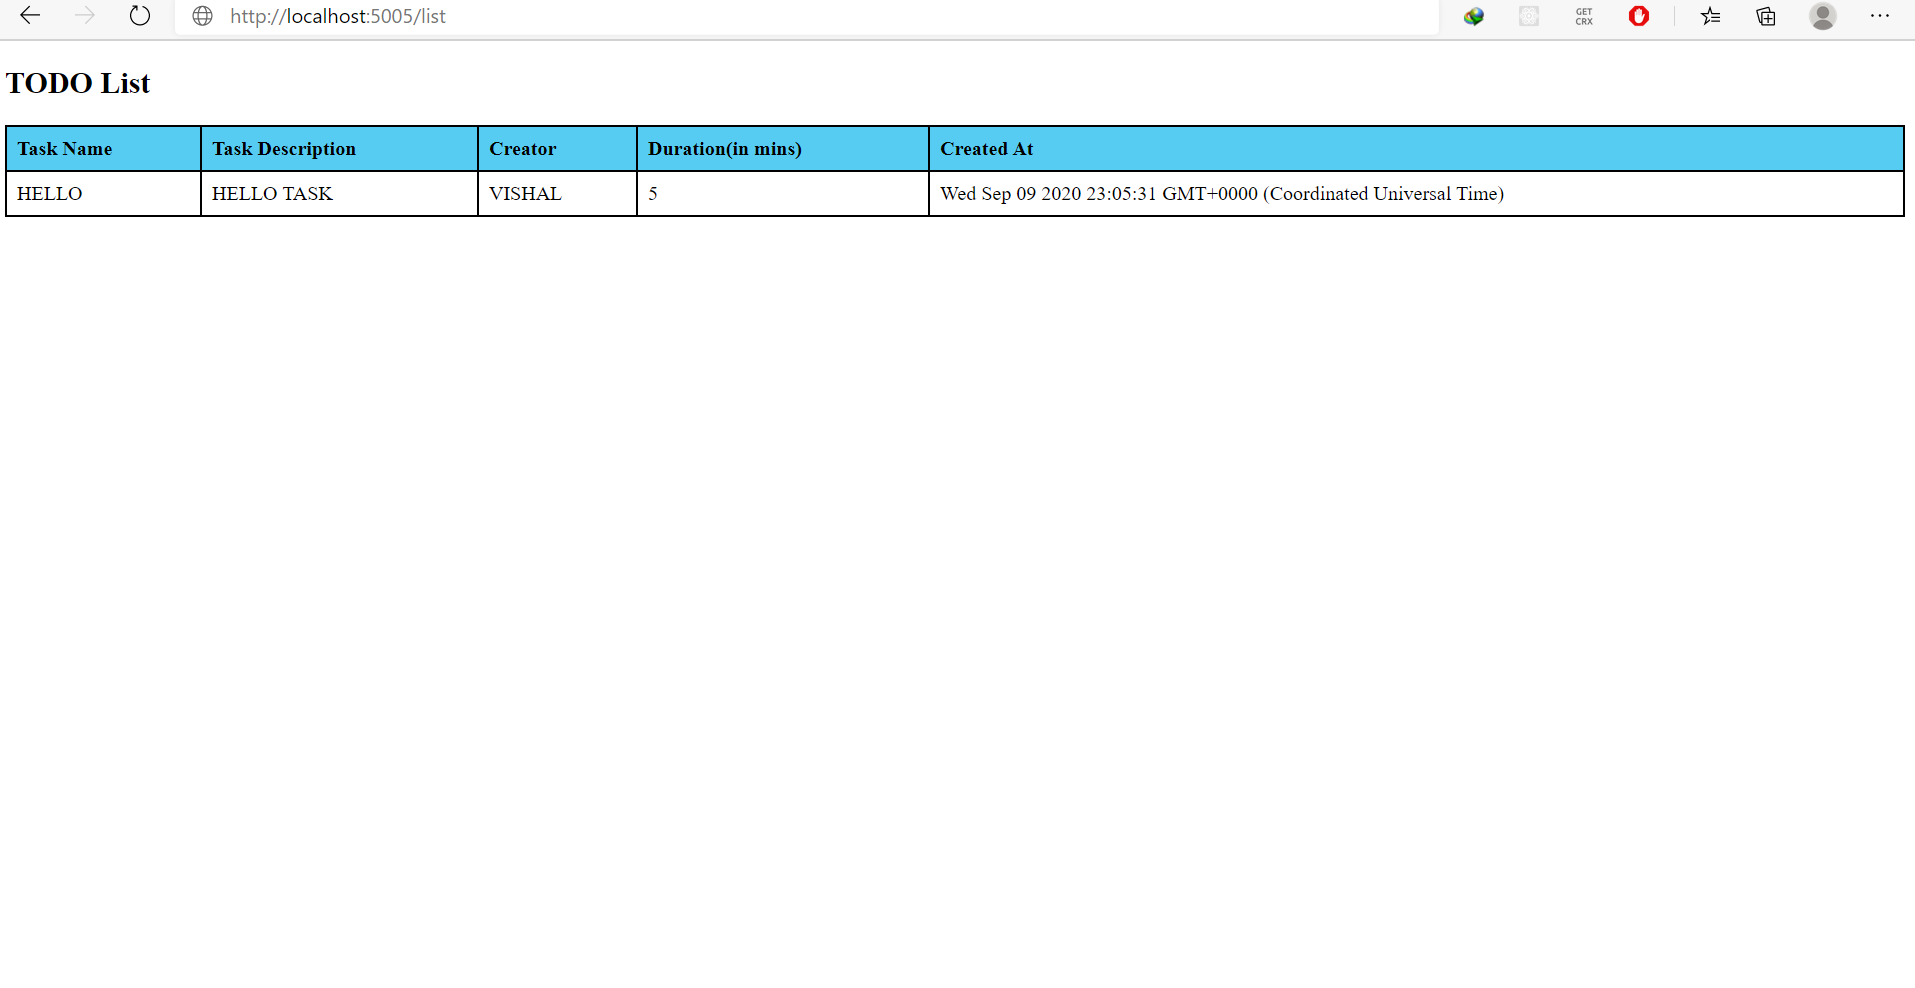
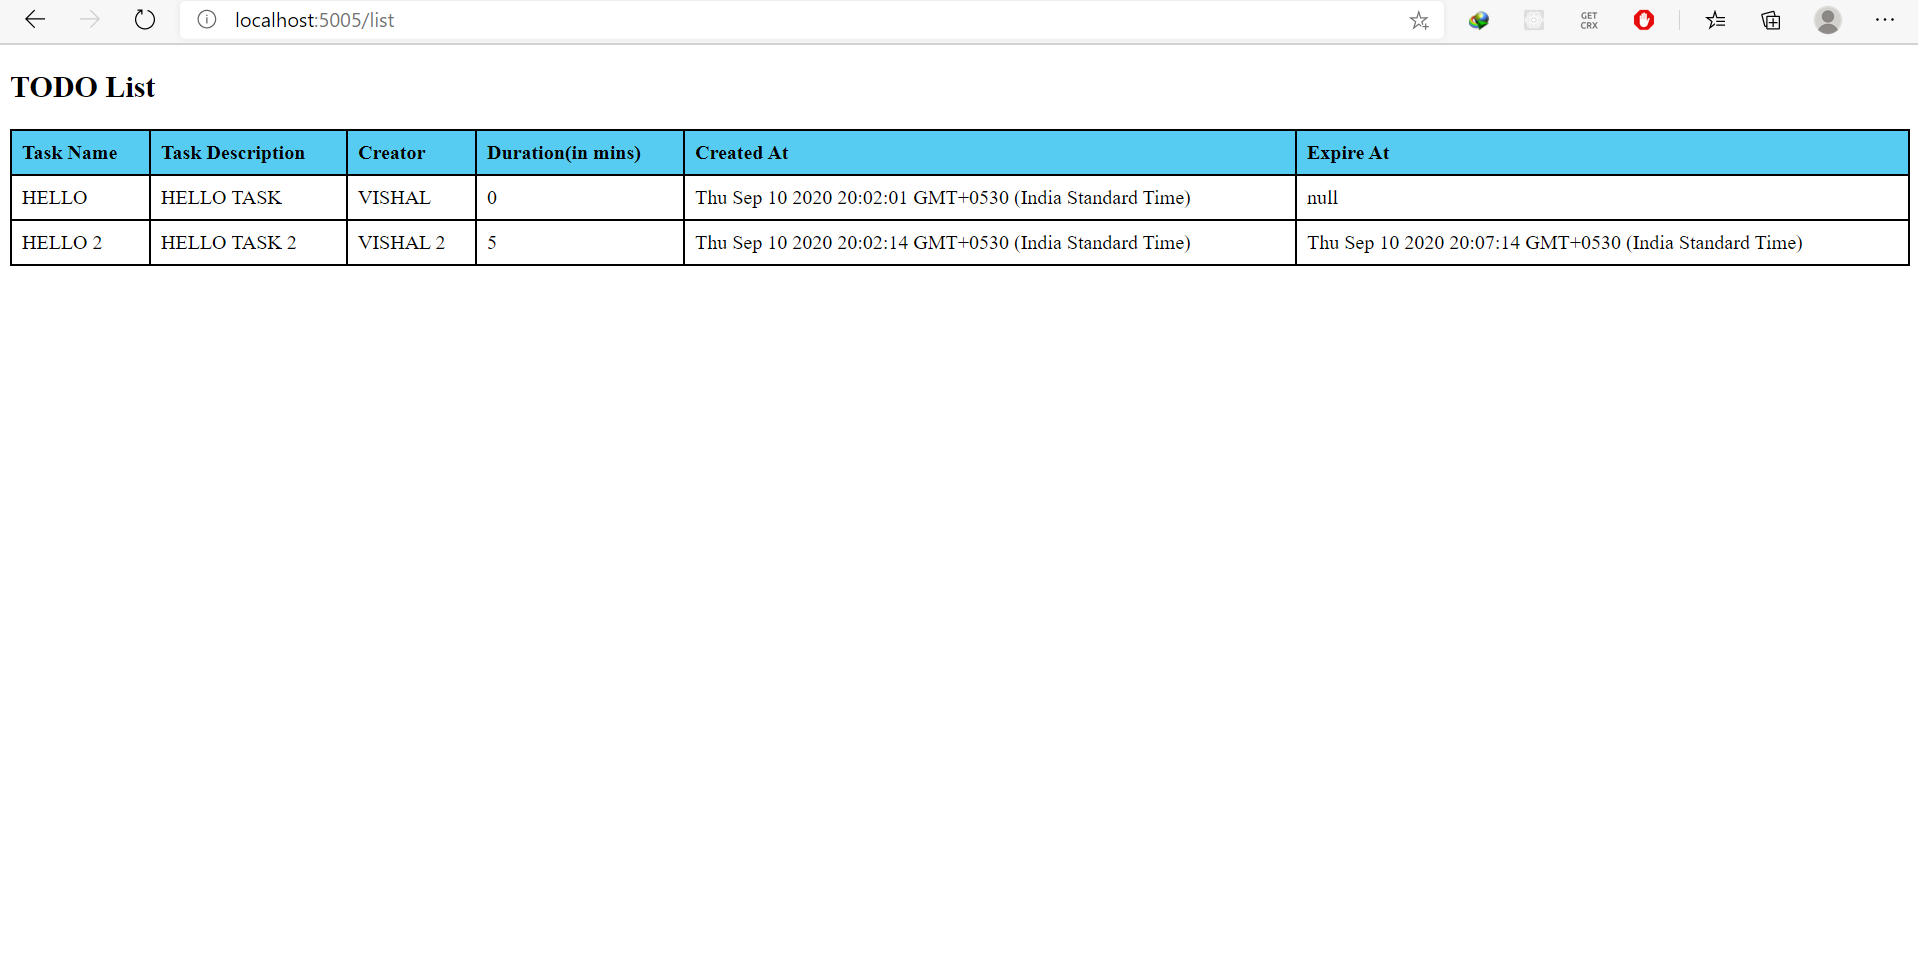
TODO App with Updated README.md file: Showing the tasks. (Board Infinity)

Changed region(s): [[0.0, 0.0, 1.0, 0.2792]]

diff --git a/dist/api/models/todo.js b/dist/api/models/todo.js
@@ -18,24 +18,20 @@ var __importStar = (this && this.__importStar) || function (mod) {
     __setModuleDefault(result, mod);
     return result;
 };
-var __importDefault = (this && this.__importDefault) || function (mod) {
-    return (mod && mod.__esModule) ? mod : { "default": mod };
-};
 Object.defineProperty(exports, "__esModule", { value: true });
 exports.TodoSchema = void 0;
 // Importing Mongoose library for creating schema model
 const mongoose_1 = __importStar(require("mongoose"));
-// Importing duration variable from add api response from todocontroller
-const todoController_1 = __importDefault(require("../controllers/todoController"));
 // Schema
 exports.TodoSchema = new mongoose_1.Schema({
     taskName: { type: String, required: true },
     taskDescription: { type: String, required: true },
     creator: { type: String, required: true },
     duration: { type: Number, required: true },
-    createdAt: { type: Date, default: Date.now }
+    createdAt: { type: Date, default: Date.now, required: false },
+    expireAt: { type: Date, default: Date.now }
 });
 // Passing duration so that it delete the last document at particular time 
-exports.TodoSchema.index({ "createdAt": 1 }, { expireAfterSeconds: todoController_1.default });
+exports.TodoSchema.index({ "expireAt": 1 }, { expireAfterSeconds: 0 });
 const Todo = mongoose_1.default.model("Todo", exports.TodoSchema);
 exports.default = Todo;

diff --git a/dist/api/controllers/todoController.js b/dist/api/controllers/todoController.js
@@ -6,8 +6,6 @@ Object.defineProperty(exports, "__esModule", { value: true });
 exports.add = exports.list = void 0;
 const todo_1 = __importDefault(require("../models/todo"));
 const config_1 = __importDefault(require("../config/config"));
-// Setting a duration variable to store duration period of current todo item added
-var dur = 0;
 // Api Endpoint: After GET resquest is used it will fetch all todos from DB and showing it into web page 
 exports.list = (req, res) => {
     let todos = todo_1.default.find((err, todos) => {
@@ -22,8 +20,16 @@ exports.list = (req, res) => {
 };
 // Api Endpoint: After POST request if fetched it will take the request body mesaage and add it to todo schema in DB. 
 exports.add = (req, res) => {
+    if (req.body.duration === '0') {
+        req.body.expireAt = null;
+    }
+    else {
+        let curr = new Date();
+        let expireDate = new Date(curr);
+        expireDate.setMinutes(curr.getMinutes() + parseInt(req.body.duration));
+        req.body.expireAt = expireDate;
+    }
     var todo = new todo_1.default(req.body);
-    dur = 60 * req.body.duration;
     todo.save((err) => {
         if (err) {
             console.log("Error Adding: " + err);
@@ -35,4 +41,3 @@ exports.add = (req, res) => {
         }
     });
 };
-exports.default = dur;

diff --git a/src/api/controllers/todoController.ts b/src/api/controllers/todoController.ts
@@ -1,10 +1,7 @@
 // Importing Libraries
-import { Request, Response } from "express";
+import { request, Request, Response } from "express";
 import Todo from "../models/todo";
 import tableCreate from "../config/config";
-
-// Setting a duration variable to store duration period of current todo item added
-var dur: number = 0; 
 
 // Api Endpoint: After GET resquest is used it will fetch all todos from DB and showing it into web page 
 export let list = (req: Request, res: Response) => {
@@ -20,8 +17,18 @@ export let list = (req: Request, res: Response) => {
 
 // Api Endpoint: After POST request if fetched it will take the request body mesaage and add it to todo schema in DB. 
 export let add = (req: Request, res: Response) => {
+  if (req.body.duration === '0') {
+    req.body.expireAt = null;
+  }
+  else {
+    let curr = new Date();
+    let expireDate = new Date(curr);
+    expireDate.setMinutes(curr.getMinutes() + parseInt(req.body.duration));
+    req.body.expireAt = expireDate;
+  }
+
   var todo = new Todo(req.body);
-  dur = 60*req.body.duration;
+
   todo.save((err: any) => {      
     if (err) {
       console.log("Error Adding: " + err);
@@ -32,5 +39,3 @@ export let add = (req: Request, res: Response) => {
     }
   });
 };
-
-export default dur;

diff --git a/src/api/config/config.ts b/src/api/config/config.ts
@@ -34,13 +34,14 @@ body, html {height: 100%}
 let tableCreate = function tableCreate(todos: any): string {
     let htmlTableRows = ``;
       let data = {rows: todos};
-      data.rows.forEach((row: { taskName: any; taskDescription: any; creator: any; duration: any; createdAt: any; }) => {
+      data.rows.forEach((row: { taskName: any; taskDescription: any; creator: any; duration: any; createdAt: any; expireAt: any }) => {
       htmlTableRows += `<tr>
         <td>${row.taskName}</td>
         <td>${row.taskDescription}</td>
         <td>${row.creator}</td>
         <td>${row.duration}</td>
         <td>${row.createdAt}</td>
+        <td>${row.expireAt}</td>
       </tr>`;
     });
 
@@ -73,6 +74,7 @@ let tableCreate = function tableCreate(todos: any): string {
                     </th><th>Creator</th>
                     <th>Duration(in mins)</th>
                     <th>Created At</th>
+                    <th>Expire At</th>
                 </tr>
             ${htmlTableRows}
             </table>

diff --git a/src/api/models/todo.ts b/src/api/models/todo.ts
@@ -1,20 +1,18 @@
 // Importing Mongoose library for creating schema model
 import mongoose, { Schema } from "mongoose";
 
-// Importing duration variable from add api response from todocontroller
-import dur from "../controllers/todoController";
-
 // Schema
 export const TodoSchema = new Schema({
   taskName: { type: String, required: true },
   taskDescription: { type: String, required: true },
   creator: { type: String, required: true },
   duration: { type: Number, required: true },
-  createdAt: { type: Date, default: Date.now }
+  createdAt: { type: Date, default: Date.now, required: false },
+  expireAt: { type: Date, default: Date.now }
 });
 
 // Passing duration so that it delete the last document at particular time 
-TodoSchema.index({"createdAt": 1}, {expireAfterSeconds: dur})
+TodoSchema.index({"expireAt": 1}, {expireAfterSeconds: 0})
 
 const Todo = mongoose.model("Todo", TodoSchema);
 export default Todo;

diff --git a/dist/api/config/config.js b/dist/api/config/config.js
@@ -41,6 +41,7 @@ let tableCreate = function tableCreate(todos) {
         <td>${row.creator}</td>
         <td>${row.duration}</td>
         <td>${row.createdAt}</td>
+        <td>${row.expireAt}</td>
       </tr>`;
     });
     let htmlTable = `<!DOCTYPE html>
@@ -72,6 +73,7 @@ let tableCreate = function tableCreate(todos) {
                     </th><th>Creator</th>
                     <th>Duration(in mins)</th>
                     <th>Created At</th>
+                    <th>Expire At</th>
                 </tr>
             ${htmlTableRows}
             </table>

diff --git a/README.md b/README.md
@@ -67,6 +67,25 @@ To run the project execute:
 npm run start
 ```
 
+### Variables in a TODO task
+
+* Task Name :  String  (required)
+* Task Description : String (required)
+* Creator : String (required)
+* Duration : Number( Time in Minutes ) (required)
+* Created At : Date (Will Fetch current time) (not required)
+* Expire At : Date (Will be calculated automatically)
+
+If Duration is equal to 0: Then task will not be deleted
+
+```bash
+{ "taskName": "HELLO Example",
+  "taskDescription": "HELLO Example",
+  "creator": "USER",
+  "duration": 5
+}
+```
+
 * Link to Home Page: /
 
 ![HOME_H](demoFIles/HOME_LOCALHOST.png?raw=true "HOME_H")
@@ -77,7 +96,8 @@ npm run start
 
 * Link to add TODO(use [POSTMAN](https://www.postman.com/) for POST request): /add
 
-![ADD_H](demoFIles/POST_LOCALHOST.png?raw=true "ADD_H")
+![ADD_H](demoFIles/POST_LOCALHOST_1.png?raw=true "ADD_H")
+![ADD_H2](demoFIles/POST_LOCALHOST.png?raw=true "ADD_H2")
 
 ## App demo
 
@@ -111,7 +131,8 @@ git push heroku master
 
 * Link to add TODO(use [POSTMAN](https://www.postman.com/) for POST request): /add
 
-![ADD_Heroku](demoFIles/POST_HEROKU.png?raw=true "ADD_Heroku")
+![ADD_Heroku1](demoFIles/POST_HEROKU_1.png?raw=true "ADD_Heroku1")
+![ADD_Heroku2](demoFIles/POST_HEROKU.png?raw=true "ADD_Heroku2")
 
 ## License
 
